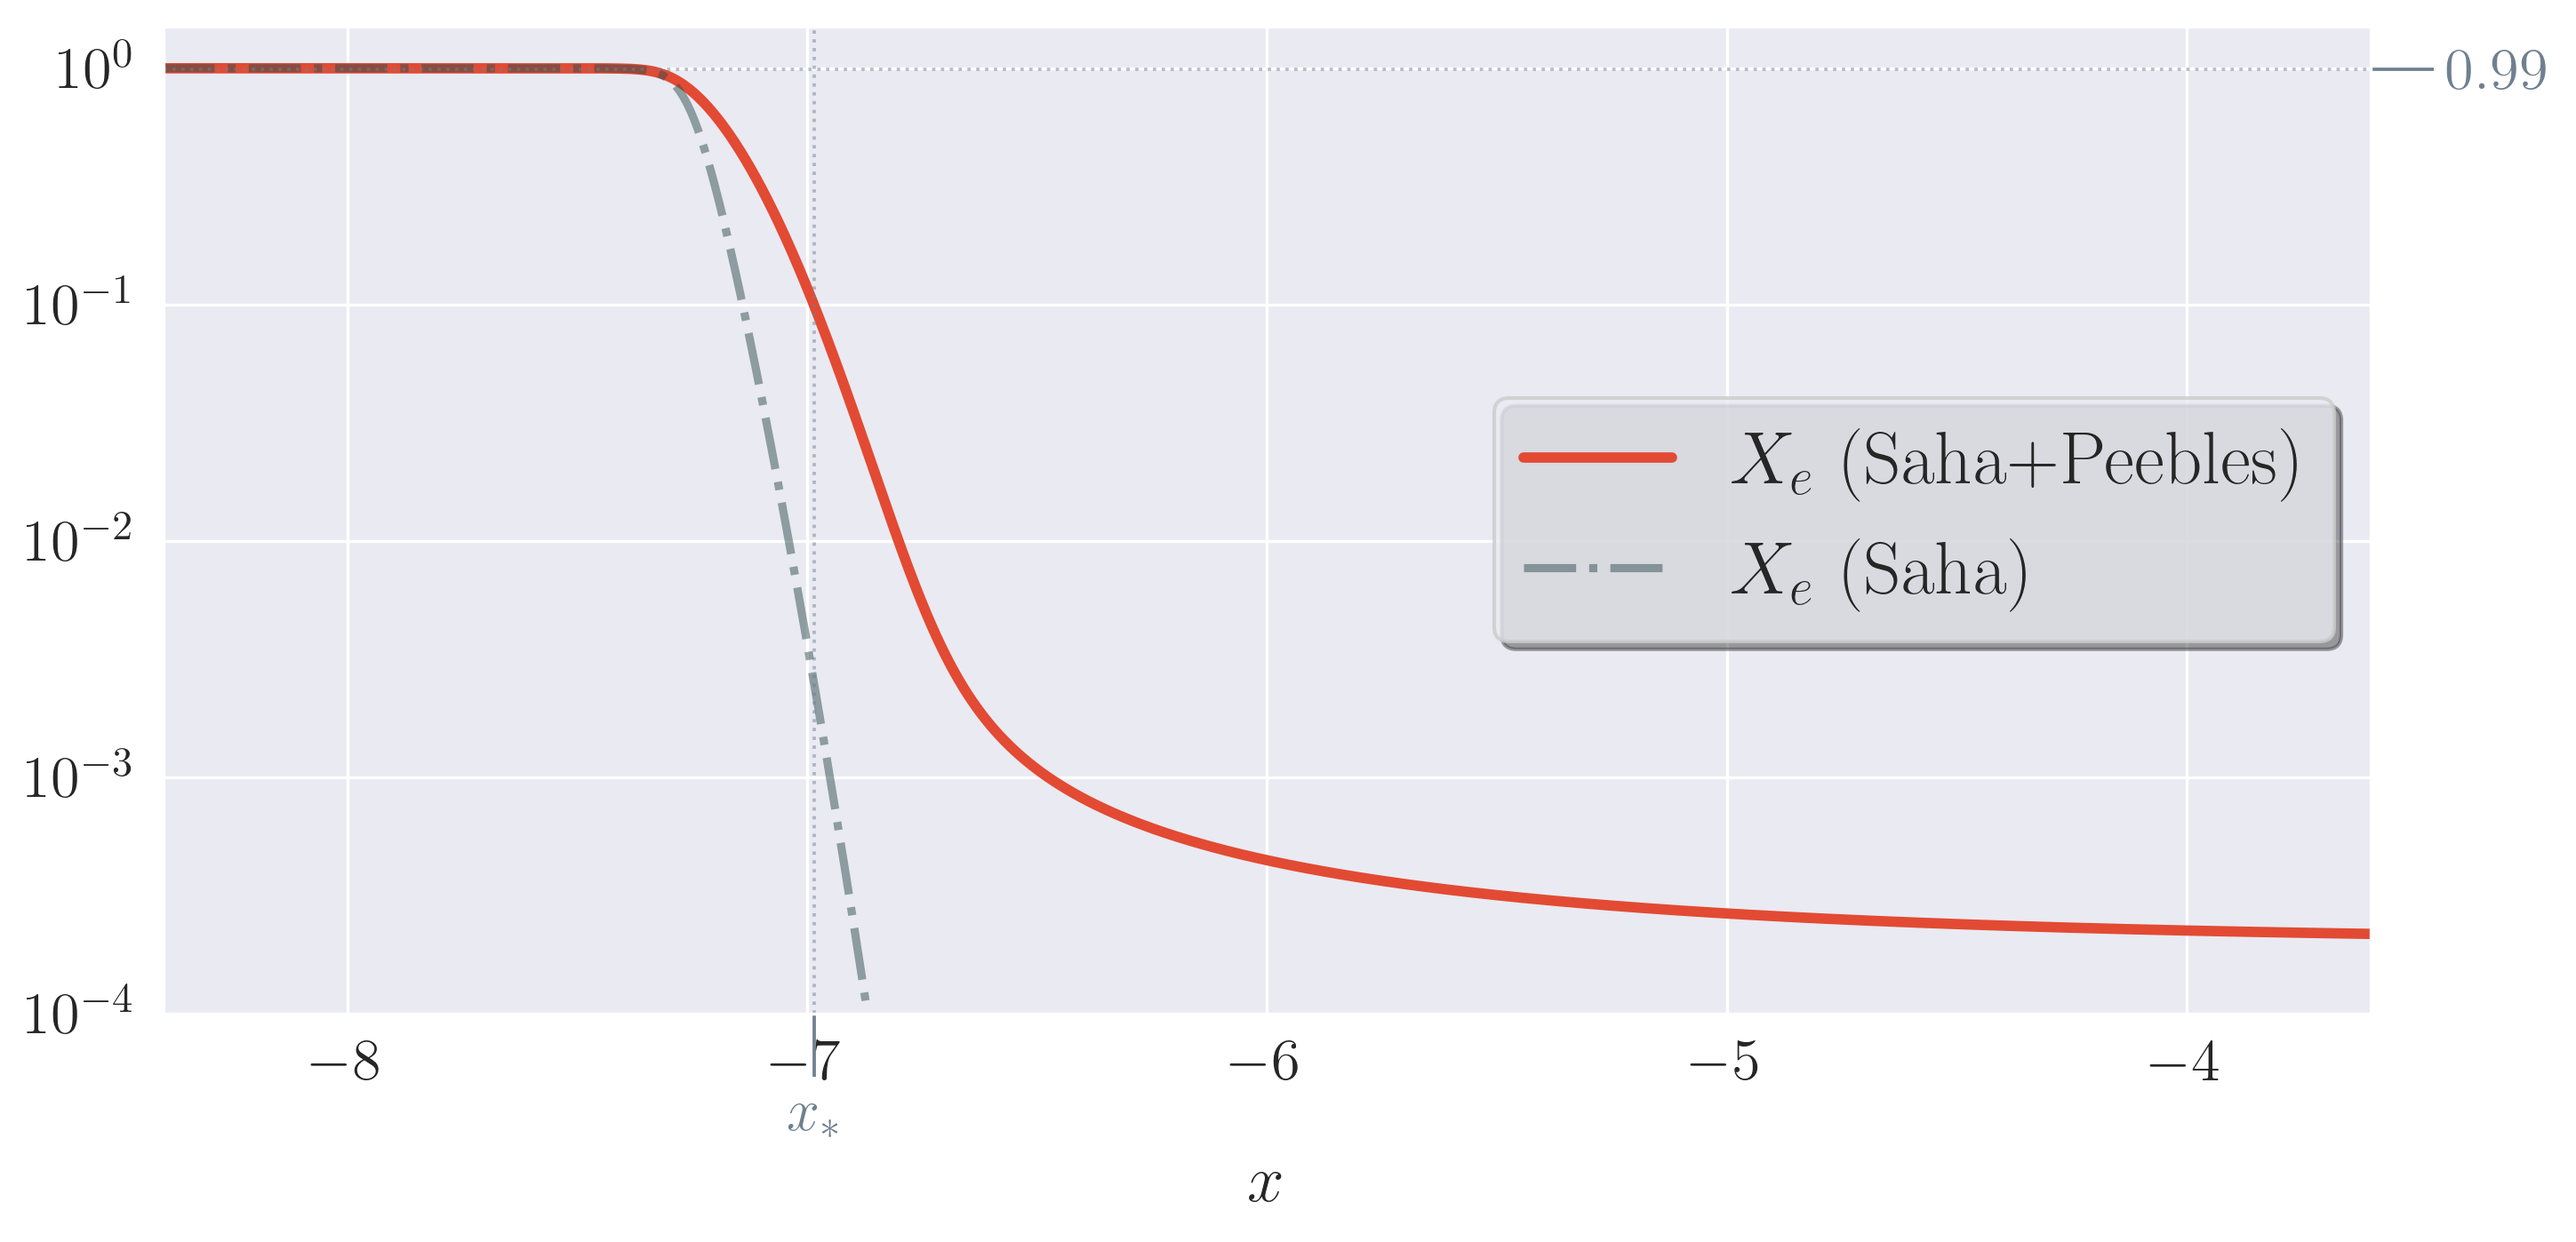
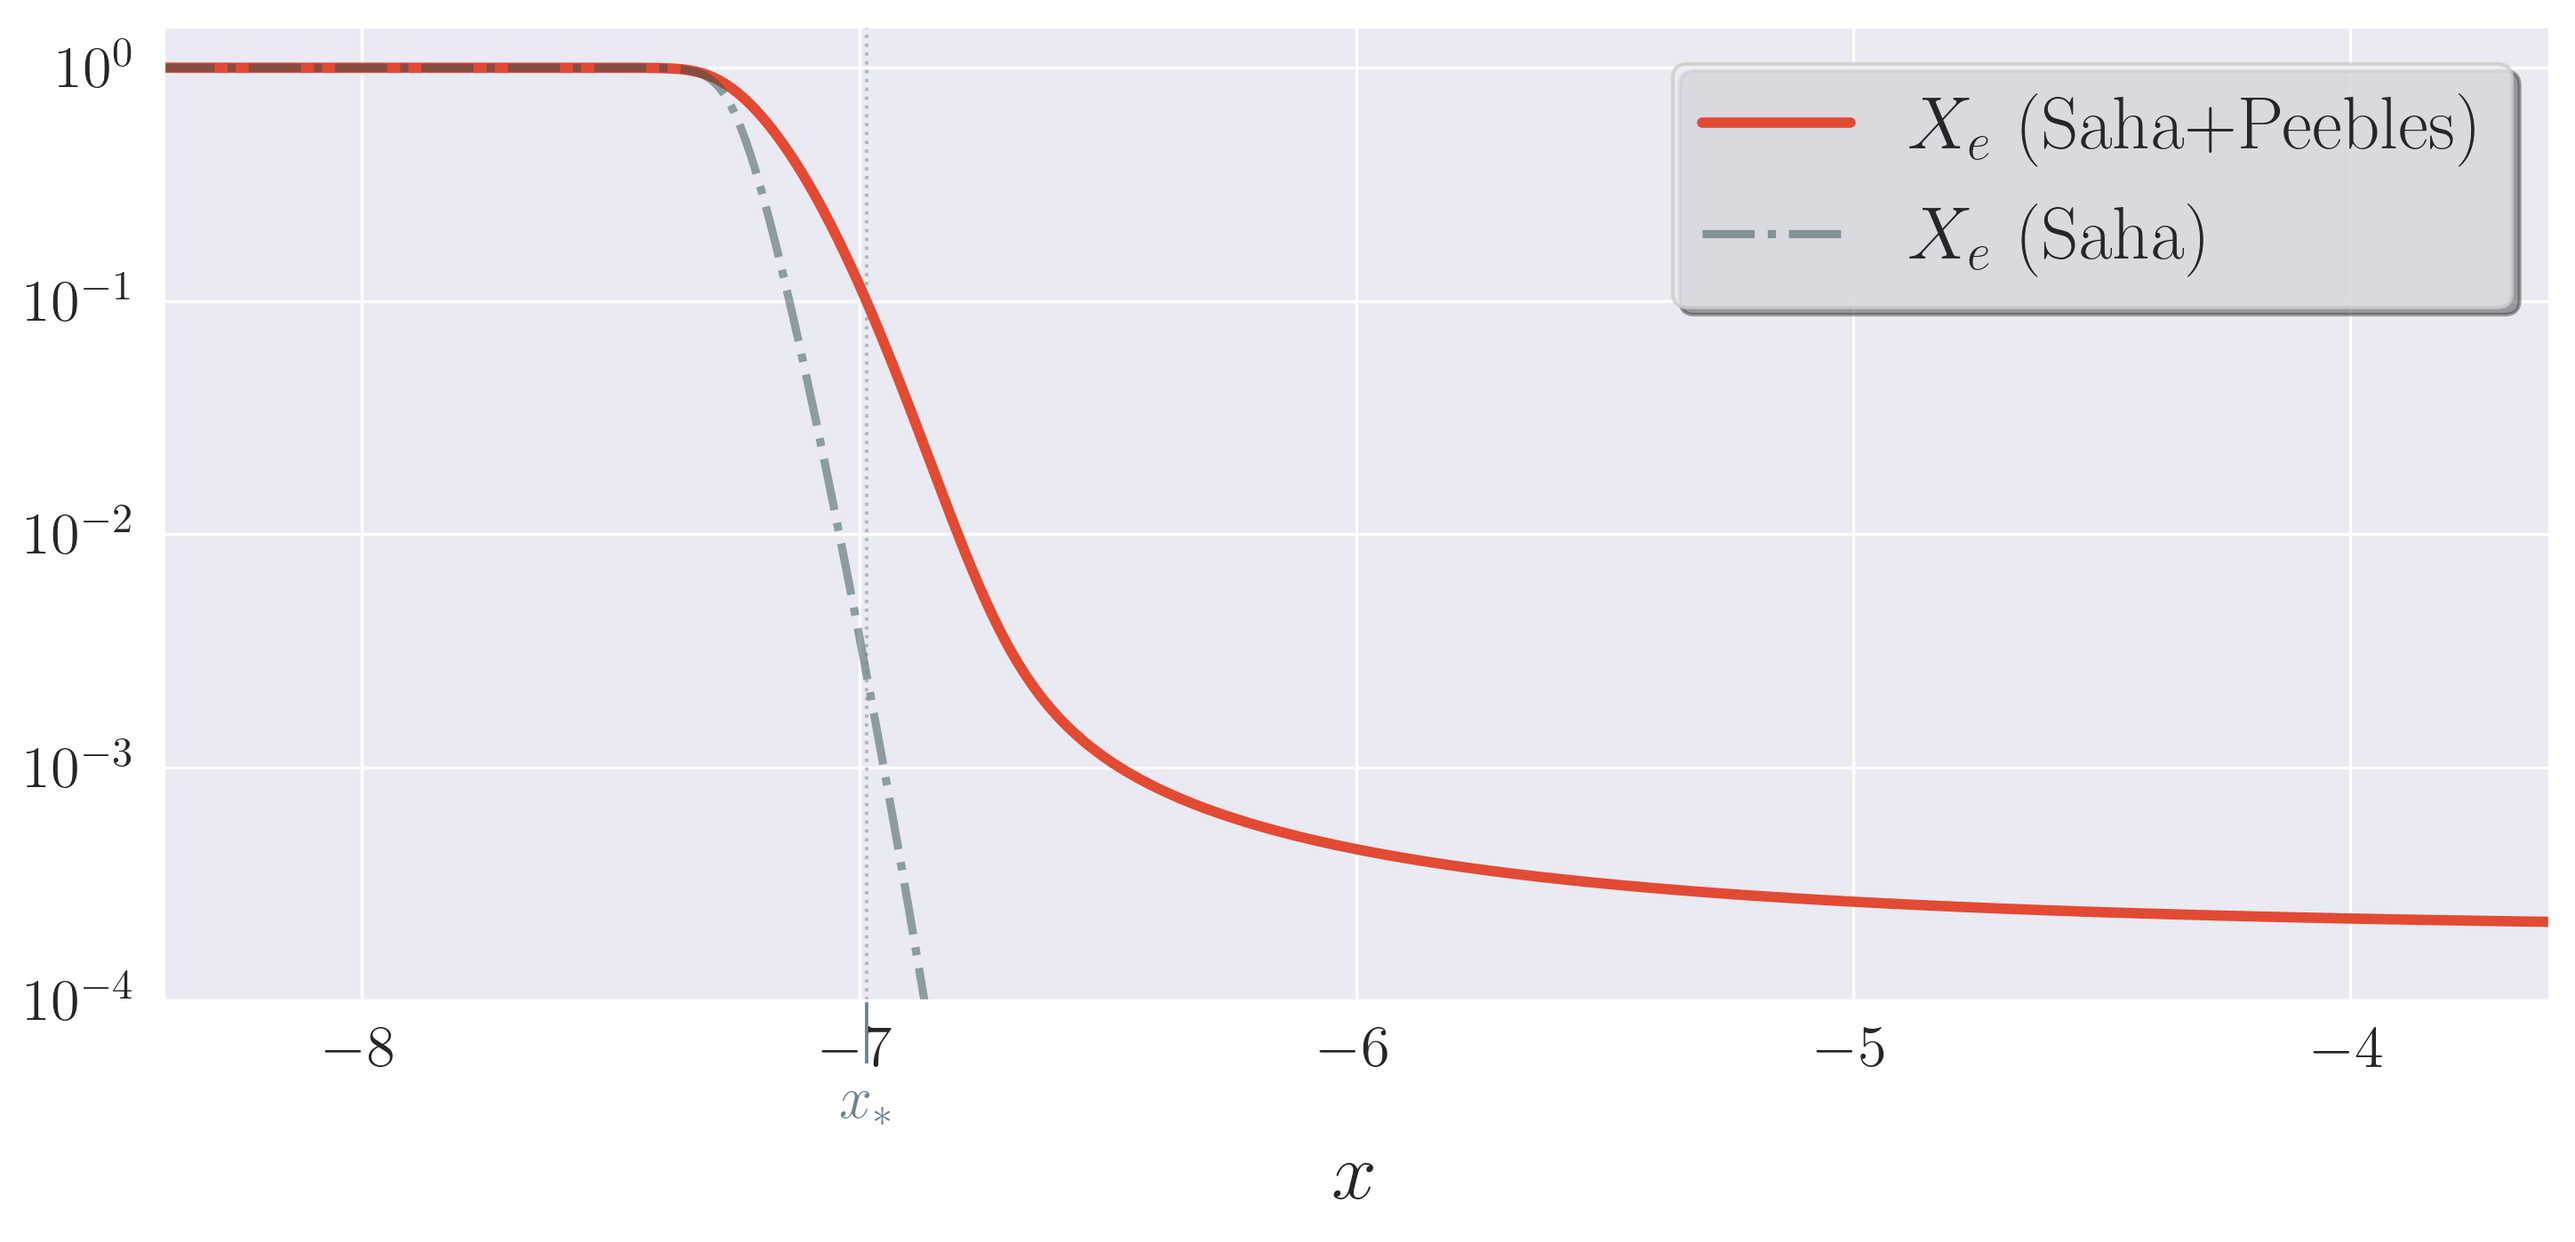
some figure changes

diff --git a/src/plotting/milestone_two.py b/src/plotting/milestone_two.py
@@ -15,8 +15,6 @@ x, Xe = rec[:,0], rec[:,1]
 x_Saha, Xe_Saha = rec_Saha[:,0], rec_Saha[:,1]
 
 fig, ax = plt.subplots()
-# ax.plot(x, Xe, color=COLOURS[0], label=tex("X_e")+" ("+ tex("X_e"+tex.ap("Saha")+"=0.99") + ")")
-# ax.plot(x_Saha, Xe_Saha, ls="--", color=COLOURS[0], alpha=.7, label=tex("X_e")+" ("+ tex("X_e"+tex.ap("Saha")+"=0.00") + ")")
 ax.plot(x, Xe, color=COLOURS[0], label=tex("X_e")+ " (Saha+Peebles)")
 ax.plot(x_Saha, Xe_Saha, label=tex("X_e")+ " (Saha)", **overplot_kw)
 
@@ -32,9 +30,9 @@ ax.axvline(x_rec, **pinpoint_kw)
 ax.xaxis.set_tick_params("minor", **mark_xaxis_kw)
 ax.set_xticks([x_rec], labels=[tex("x_*")], minor=True)
 
-ax.axhline(0.99, **pinpoint_kw)
-ax.yaxis.set_tick_params("minor", **mark_yaxis_kw)
-ax.set_yticks([0.99], labels=[tex("0.99")], minor=True)
+# ax.axhline(0.99, **pinpoint_kw)
+# ax.yaxis.set_tick_params("minor", **mark_yaxis_kw)
+# ax.set_yticks([0.99], labels=[tex("0.99")], minor=True)
 
 save("electron_fraction")
 
@@ -62,6 +60,8 @@ ax.plot(x, -dtaudx, label=tex("-"+tex.dv(tex.tau)), **dfdx_of_x_kw)
 ax.plot(x, ddtaudxx, label=tex.dv(tex.tau, n=2), **ddfdxx_of_x_kw)
 ax.set_xlabel(tex.x)
 ax.set_yscale("log")
+ax.set_xlim(-8.7,-3.2)
+ax.set_ylim(1e-5, 1e4)
 ax.legend()
 
 ax.axvline(x_rec, **pinpoint_kw)
